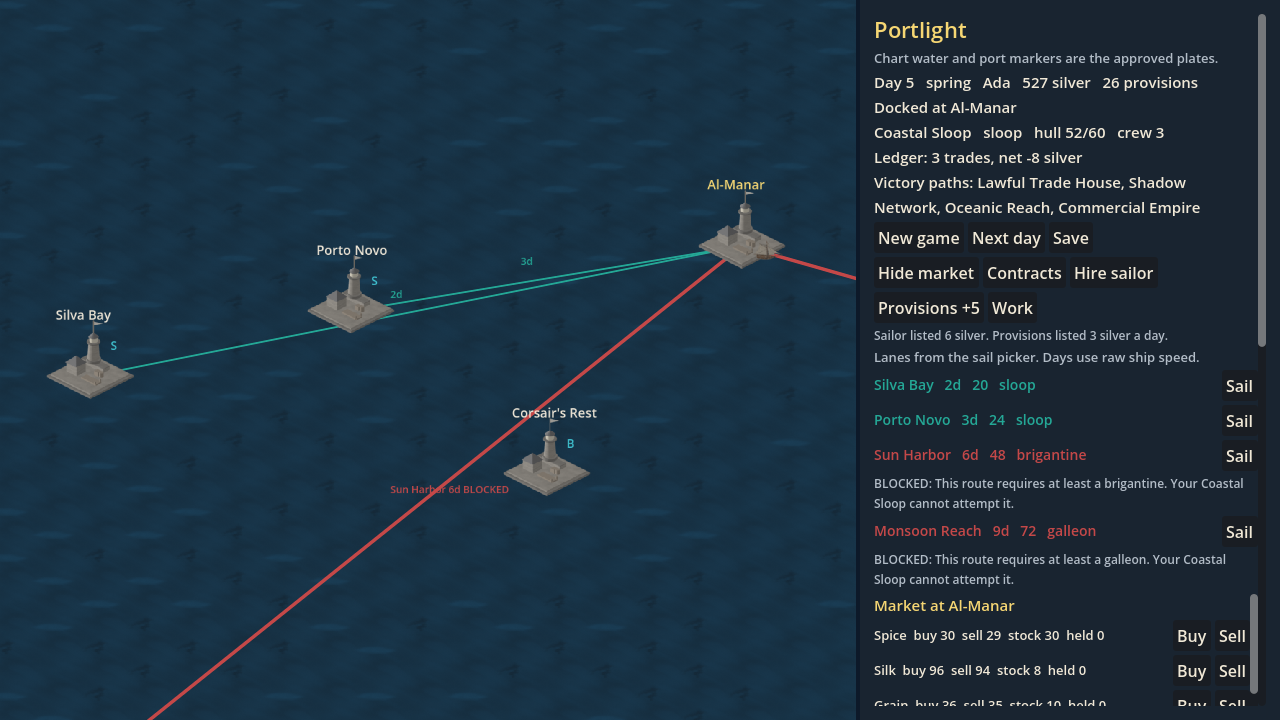
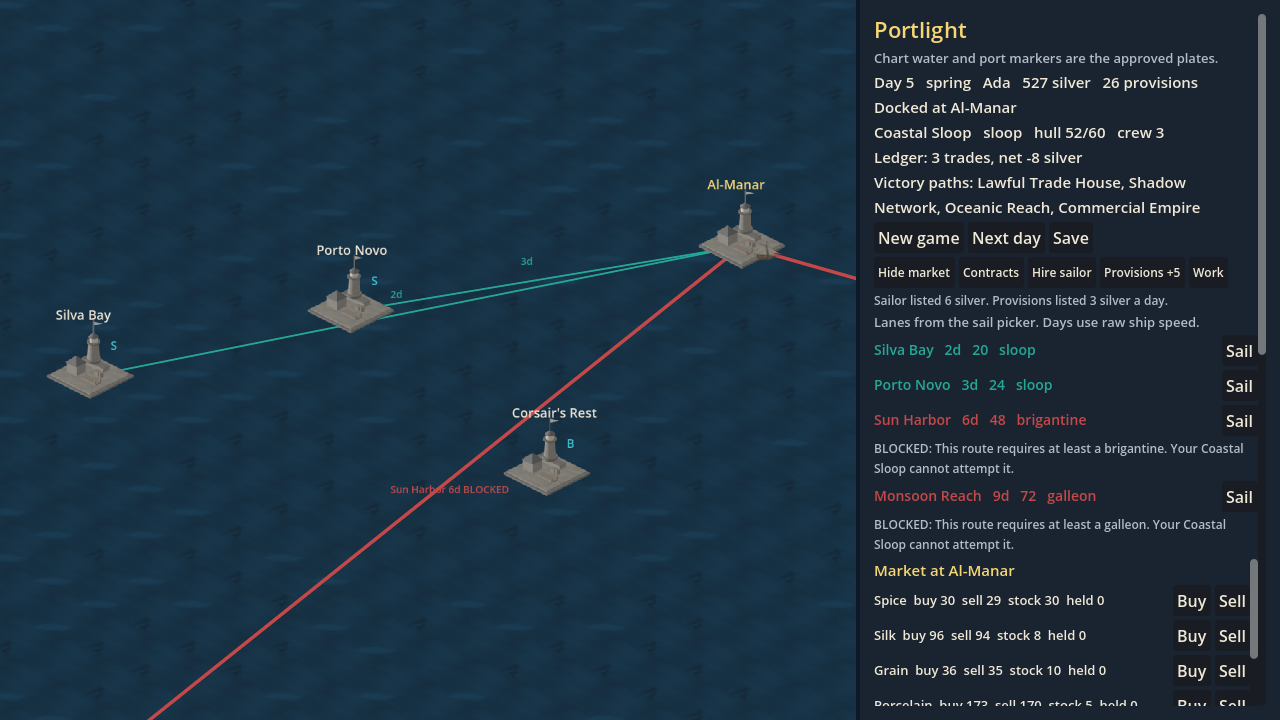
Keep the Contracts button on one docked port row.
A second line was pushing the lanes down the panel. The port-row labels use a smaller font so Market, Contracts, Hire, Provisions, and Work stay on the original line, and chart-1280 changes only that row.

diff --git a/crates/portlight-godot/src/game.rs b/crates/portlight-godot/src/game.rs
@@ -31,8 +31,8 @@ use godot::classes::scroll_container::ScrollMode;
 use godot::classes::text_server::{AutowrapMode, OverrunBehavior};
 use godot::classes::viewport::DefaultCanvasItemTextureFilter;
 use godot::classes::{
-    Button, Control, DisplayServer, HBoxContainer, HFlowContainer, IControl, Label, LineEdit, Node,
-    Os, PanelContainer, ScrollContainer, StyleBoxFlat, SubViewport, SubViewportContainer,
+    Button, Control, DisplayServer, HBoxContainer, IControl, Label, LineEdit, Node, Os,
+    PanelContainer, ScrollContainer, StyleBoxFlat, SubViewport, SubViewportContainer,
     VBoxContainer,
 };
 use godot::global::Error;
@@ -251,7 +251,7 @@ struct PortlightGame {
     log_label: Option<Gd<Label>>,
     market_button: Option<Gd<Button>>,
     work_button: Option<Gd<Button>>,
-    port_row: Option<Gd<HFlowContainer>>,
+    port_row: Option<Gd<HBoxContainer>>,
     port_note: Option<Gd<Label>>,
     encounter_box: Option<Gd<VBoxContainer>>,
     encounter_label: Option<Gd<Label>>,
@@ -638,21 +638,23 @@ impl PortlightGame {
         self.save_button = Some(save);
         column.add_child(&buttons);
 
-        // The four older buttons already fill the 420 px panel. A flow wraps
-        // Contracts onto the next line instead of widening the chart.
-        let mut port_row = HFlowContainer::new_alloc();
-        port_row.set_h_size_flags(SizeFlags::EXPAND_FILL);
-        port_row.add_theme_constant_override("h_separation", 4);
-        port_row.add_theme_constant_override("v_separation", 4);
-        let market = action_button("Market", game_id, Action::ToggleMarket);
+        // One line. A wrap would push the lanes and the market down the panel.
+        // Horizontal padding is tighter so Contracts fits beside Market.
+        let mut port_row = HBoxContainer::new_alloc();
+        port_row.add_theme_constant_override("separation", 4);
+        let market = port_row_button("Market", game_id, Action::ToggleMarket);
         port_row.add_child(&market);
         self.market_button = Some(market);
-        let mut contracts = action_button("Contracts", game_id, Action::OpenContracts);
+        let mut contracts = port_row_button("Contracts", game_id, Action::OpenContracts);
         contracts.set_name("ContractsButton");
         port_row.add_child(&contracts);
-        port_row.add_child(&action_button("Hire sailor", game_id, Action::HireSailor));
-        port_row.add_child(&action_button("Provisions +5", game_id, Action::Provision));
-        let work = action_button("Work", game_id, Action::Work);
+        port_row.add_child(&port_row_button("Hire sailor", game_id, Action::HireSailor));
+        port_row.add_child(&port_row_button(
+            "Provisions +5",
+            game_id,
+            Action::Provision,
+        ));
+        let work = port_row_button("Work", game_id, Action::Work);
         port_row.add_child(&work);
         self.work_button = Some(work);
         port_row.set_visible(false);
@@ -4298,6 +4300,18 @@ fn title_label(text: &str, size: i32, color: Color) -> Gd<Label> {
 
 fn body_label(text: &str, size: i32, color: Color) -> Gd<Label> {
     title_label(text, size, color)
+}
+
+/// Chart port-row control. Same theme fill as [`action_button`].
+///
+/// The font is one step smaller so Market, Contracts, Hire, Provisions, and
+/// Work stay on one line. A second line would push the lanes down the panel.
+/// The minimum height stays the default button so the row does not shrink.
+fn port_row_button(text: &str, game: InstanceId, action: Action) -> Gd<Button> {
+    let mut button = action_button(text, game, action);
+    button.add_theme_font_size_override("font_size", 12);
+    button.set_custom_minimum_size(Vector2::new(0.0, 31.0));
+    button
 }
 
 fn action_button(text: &str, game: InstanceId, action: Action) -> Gd<Button> {
